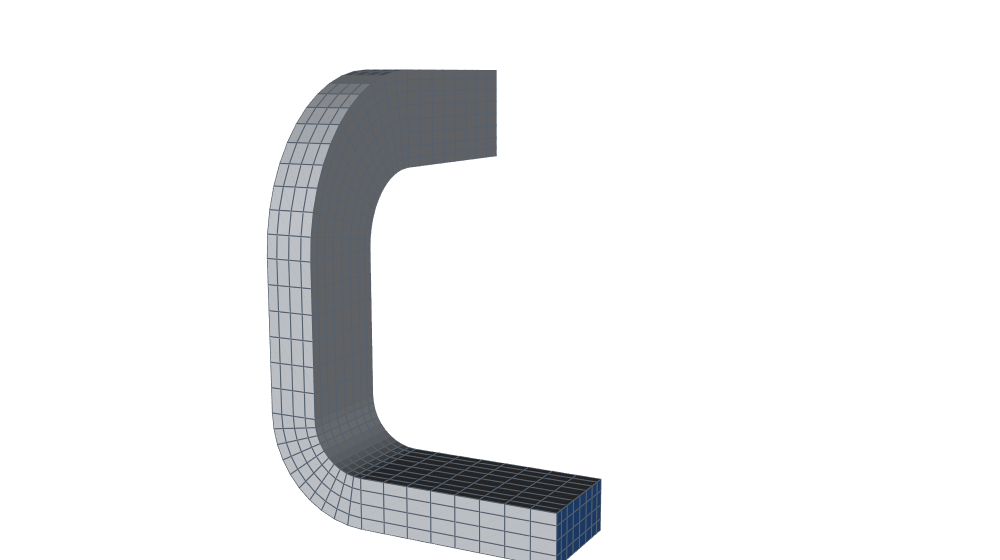
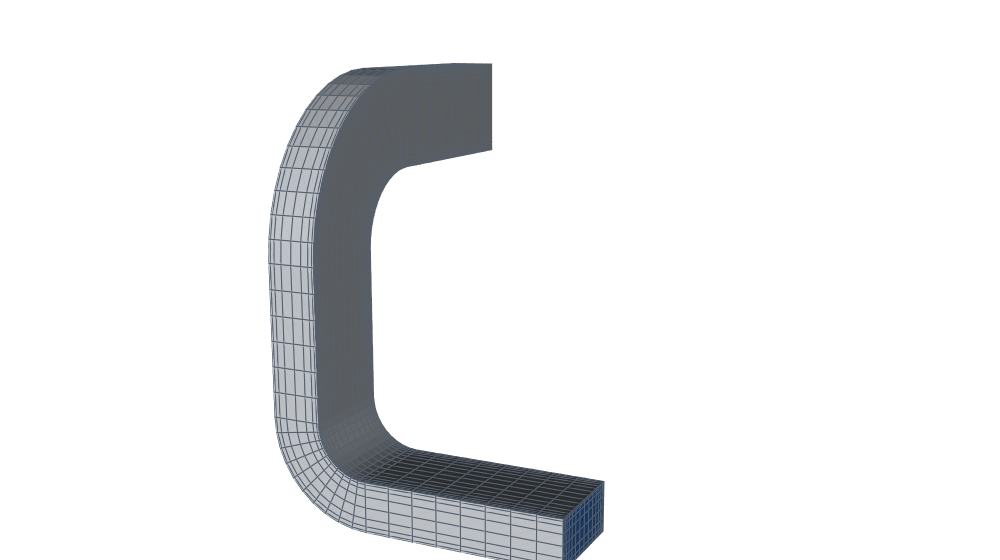
Task 0087: rect_duct example at 16 x 8, walls graded to 4 mm
Design's answer to 0087's third point: the gallery's rectangular duct
shows a graded H face.  first_cell=0.004 against a uniform 12.5 mm cell
(wall_bump 0.154 / 0.111); 5632 cells, min SJ 0.997, max
non-orthogonality 1.8°.  Gallery entry rebuilt.

Changed region(s): [[0.248, 0.0911, 0.62, 1.0]]

diff --git a/hexmesh/examples/sections/rect_duct.py b/hexmesh/examples/sections/rect_duct.py
@@ -23,8 +23,8 @@ checked against the half-width).  The open ends become ``air_inlet`` and
 ``air_outlet``.
 
 The section is an H face, one Cartesian patch (the default for a
-rectangle since 0.4.0).  ``mprg`` grades its walls: the second cell from
-each wall over the first.  ``layout="oh"`` with ``nrad=`` gives the O-H
+rectangle since 0.4.0).  ``first_cell`` grades its walls: the end cell of
+every side, here 4 mm against a uniform cell of 12.5 mm.  ``layout="oh"`` with ``nrad=`` gives the O-H
 face instead.
 (Limits: no elbow for ducts yet; duct tees are single-layer.  A duct with a wall and lagging:
 ``sections.lagged_duct``.)
@@ -32,7 +32,8 @@ face instead.
 
 from hexmesh import Assembly, Bend, PipeSpec, Straight
 
-DUCT = PipeSpec(nang_w=8, nang_h=4).core("air", half_w=0.1, half_h=0.05, mprg=1.2)
+# walls graded to a 4 mm first cell (a uniform cell is 12.5 mm)
+DUCT = PipeSpec(nang_w=16, nang_h=8).core("air", half_w=0.1, half_h=0.05, first_cell=0.004)
 
 
 def build() -> Assembly:

diff --git a/docs/GALLERY.md b/docs/GALLERY.md
@@ -29,7 +29,7 @@ What each example shows, what its mesh looks like, and how good the cells are.  
 | [insulated_pipe](#insulated_pipe) | Three-layer insulated pipe: fluid, steel wall, insulation. | 10 800 | 0.144 | 0.792 | 3.5 s |
 | [insulated_route](#insulated_route) | Insulated route: a three-layer stack carried through a reducer, a miter, a spline and an elbow. | 15 600 | 0.061 | 0.531 | 6.9 s |
 | [graded_bend](#graded_bend) | CFD-ready bend: wall grading, axial cells clustered at the bend, inlet and outlet extensions, and one wall patch per fitting. | 11 160 | 0.100 | 0.792 | 1.9 s |
-| [rect_duct](#rect_duct) | Rectangular duct: a 2:1 duct with an easy-way and a hard-way bend. | 1 408 | 0.737 | 0.997 | 0.6 s |
+| [rect_duct](#rect_duct) | Rectangular duct: a 2:1 duct with an easy-way and a hard-way bend. | 5 632 | 0.168 | 0.997 | 0.8 s |
 | [duct_transition](#duct_transition) | Duct transition: a circular pipe into a 2:1 duct, a duct bend, and back. | 4 392 | 0.356 | 0.546 | 2.9 s |
 | [layer_outlines](#layer_outlines) | Layer outlines: a round conductor in a square filler in a round sheath. | 11 040 | 0.132 | 0.706 | 5.8 s |
 | [lagged_duct](#lagged_duct) | Lagged duct: a rectangular air duct with a steel wall and lagging, through a reducer and bends both ways. | 7 176 | 0.024 | 0.690 | 4.6 s |
@@ -390,8 +390,8 @@ checked against the half-width).  The open ends become `air_inlet` and
 `air_outlet`.
 
 The section is an H face, one Cartesian patch (the default for a
-rectangle since 0.4.0).  `mprg` grades its walls: the second cell from
-each wall over the first.  `layout="oh"` with `nrad=` gives the O-H
+rectangle since 0.4.0).  `first_cell` grades its walls: the end cell of
+every side, here 4 mm against a uniform cell of 12.5 mm.  `layout="oh"` with `nrad=` gives the O-H
 face instead.
 (Limits: no elbow for ducts yet; duct tees are single-layer.  A duct with a wall and lagging:
 `sections.lagged_duct`.)
@@ -402,7 +402,7 @@ python3 -m hexmesh.examples.sections.rect_duct
 
 | Fittings | Volumes | Cells | min SICN | mean SICN | min SJ (where) | max aspect | Build |
 |---|---|---|---|---|---|---|---|
-| 5: Straight ×3, Bend ×2 | 25 | 1 408 | 0.737 | 0.872 | 0.997 (#1 Bend) | 2.5 | 0.6 s |
+| 5: Straight ×3, Bend ×2 | 25 | 5 632 | 0.168 | 0.489 | 0.997 (#1 Bend) | 12.5 | 0.8 s |
 
 - **Open ends:** `air_inlet`, `air_outlet`
 - **Walls:** `air_wall`
@@ -1010,4 +1010,4 @@ Which hexmesh features each case exercises (decision 0012's fixed list). Marks: 
 
 ---
 
-Generated 2026-11-05 from hexmesh d5e503f + uncommitted changes, gmsh 4.12.1, Python 3.12.3, 8 CPUs, 1 job(s).
+Generated 2026-11-05 from hexmesh dbfe4bc + uncommitted changes, gmsh 4.12.1, Python 3.12.3, 8 CPUs, 1 job(s).

diff --git a/docs/tasks/0087-h-default-flip.md b/docs/tasks/0087-h-default-flip.md
@@ -171,6 +171,7 @@ meshed cell, OpenFOAM's definition for the angle.  No example warns.
 | example | cells before | cells after | min SJ before | min SJ after | max non-orth before | after |
 |---|---|---|---|---|---|---|
 | rect_duct | 4 576 | 1 408 | 0.705 | 0.997 | 41.3° | 1.6° |
+| rect_duct, 16 × 8 (below) | | 5 632 | | 0.997 | | 1.8° |
 | duct_transition | 5 616 | 4 392 | 0.689 | 0.546 | 39.9° | 50.5° |
 | insulated_transition | 9 036 | 6 972 | 0.689 | 0.577 | 39.9° | 50.5° |
 | lagged_duct | 10 488 | 7 176 | 0.690 | 0.690 | 41.1° | 41.9° |
@@ -201,5 +202,10 @@ meshed cell, OpenFOAM's definition for the angle.  No example warns.
 **Proposed.**
 - **DESIGN §9:** the row "Rectangular cores have only the O-H layout"
   can be removed (for the design session).
-- **Follow-up (optional):** raise `rect_duct`'s counts, e.g. 16 × 8 with
-  `first_cell=`, so the gallery shows a graded H face.
+- ~~Follow-up: raise `rect_duct`'s counts~~: done on design's answer
+  (2026-11-05).
+  - The example is now 16 × 8 with `first_cell=0.004`: 4 mm at every
+    wall against a uniform cell of 12.5 mm (`wall_bump` 0.154 / 0.111).
+  - 5 632 cells, min SJ 0.997, max non-orthogonality 1.8°.
+  - Gallery min SICN 0.168 (the graded wall cells' aspect ratio; 0.737
+    at 8 × 4 uniform-ish).
